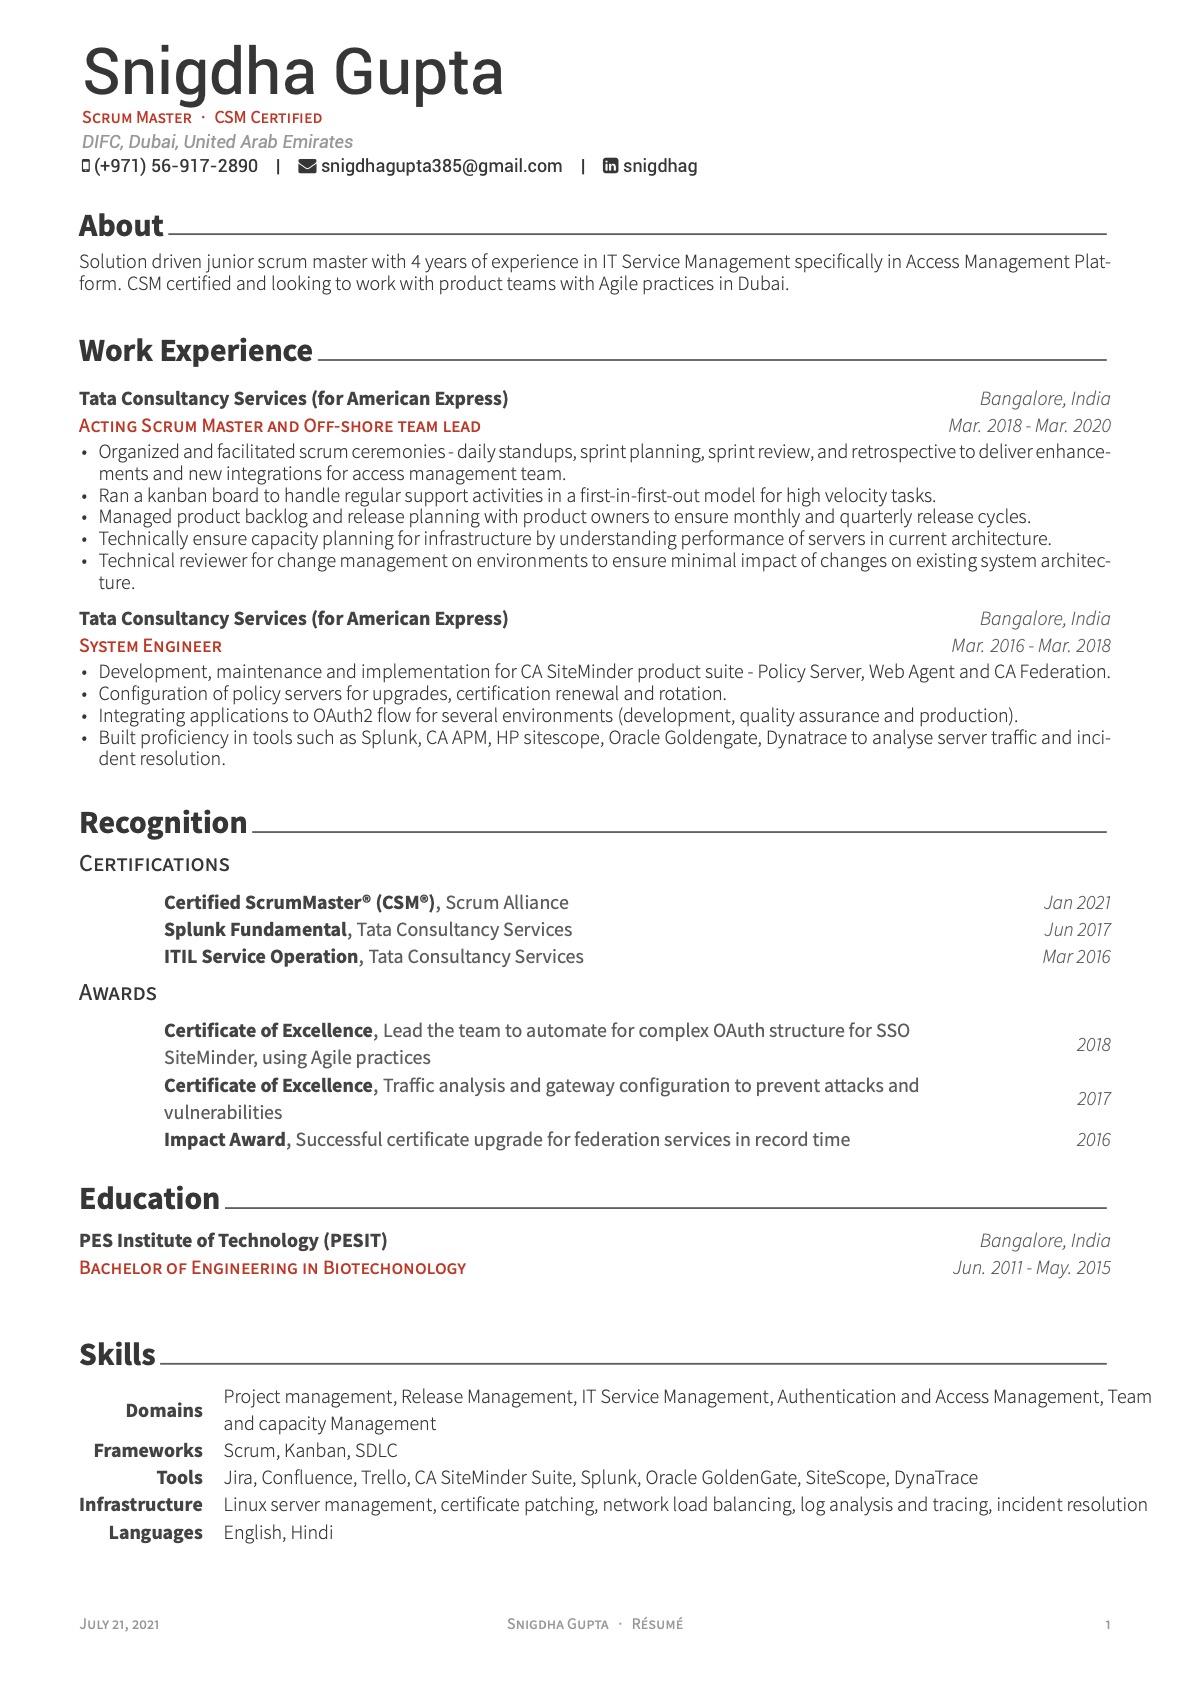
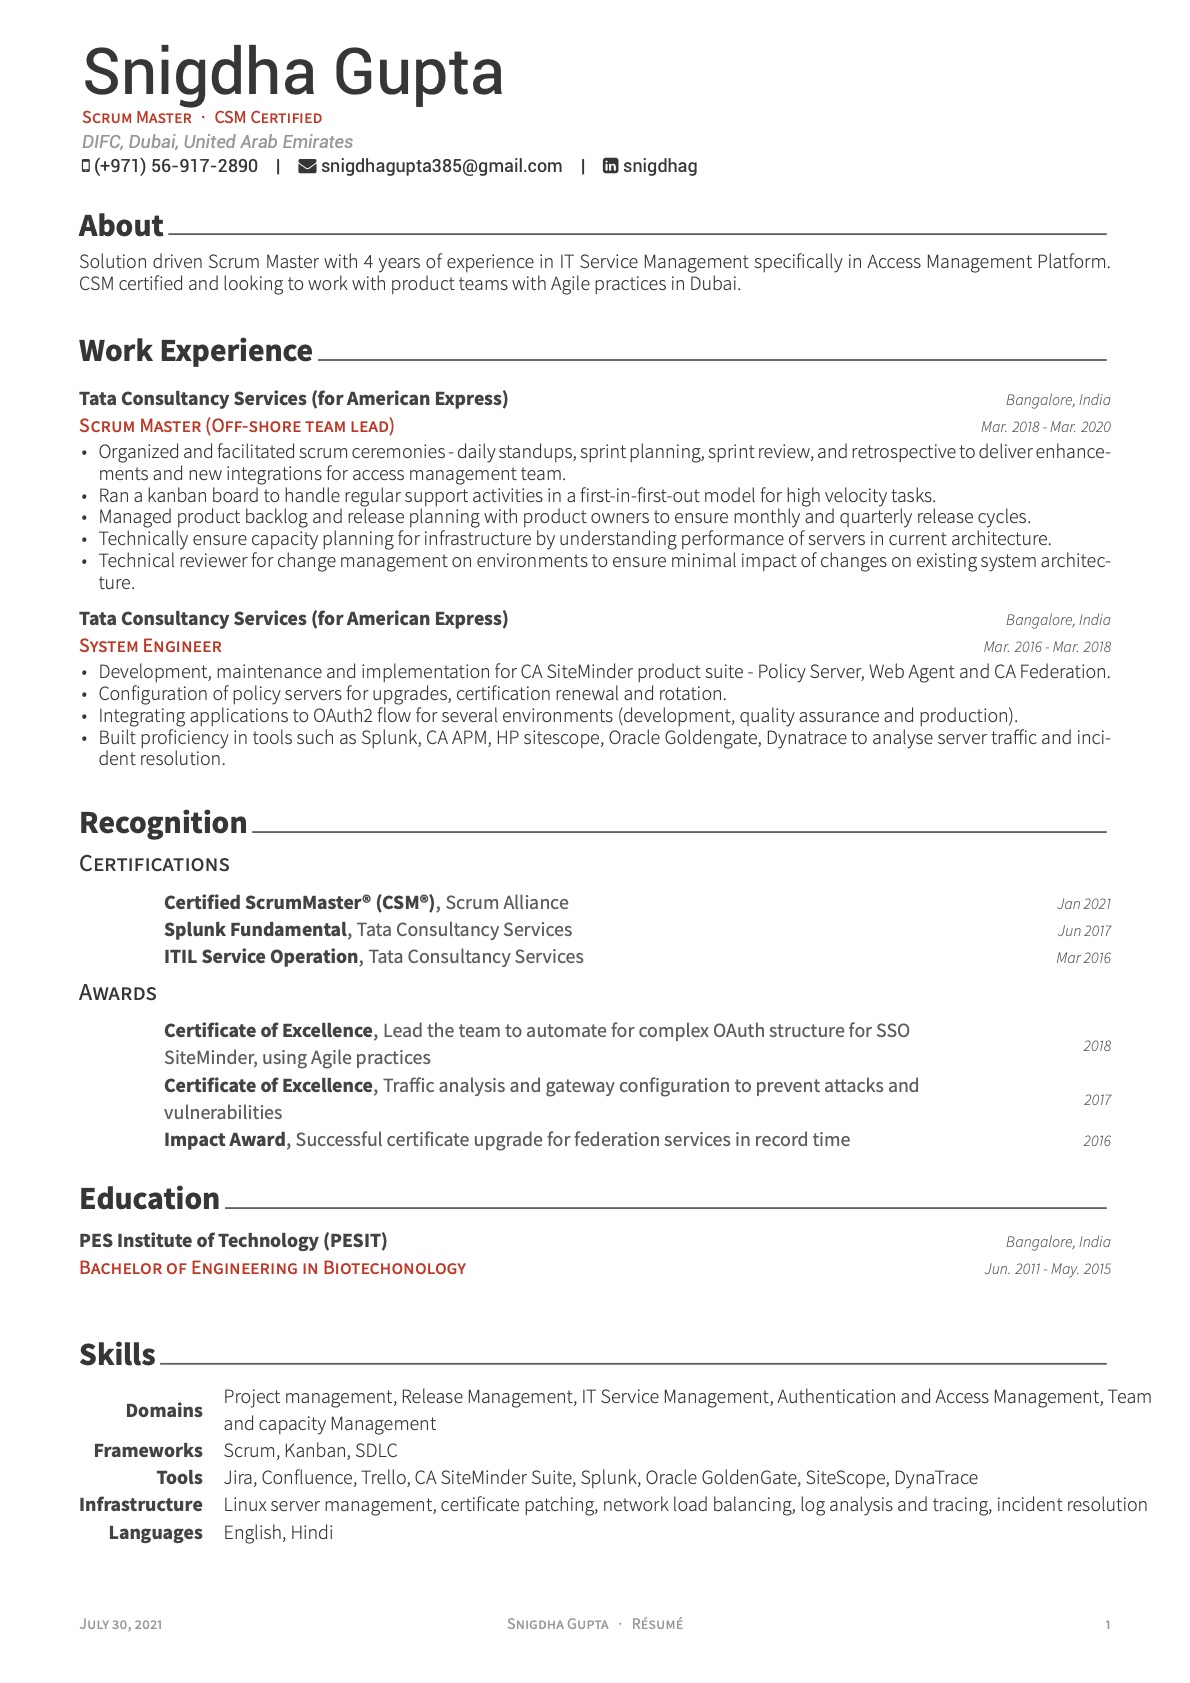
Updated role and summary

diff --git a/resume/summary.tex b/resume/summary.tex
@@ -10,5 +10,5 @@
 \begin{cvparagraph}
 
 %---------------------------------------------------------
-Solution driven junior scrum master with 4 years of experience in IT Service Management specifically in Access Management Platform. CSM certified and looking to work with product teams with Agile practices in Dubai.
+Solution driven Scrum Master with 4 years of experience in IT Service Management specifically in Access Management Platform. CSM certified and looking to work with product teams with Agile practices in Dubai.
 \end{cvparagraph}

diff --git a/resume/experience.tex b/resume/experience.tex
@@ -11,7 +11,7 @@
 
 %---------------------------------------------------------
   \cventry
-    {Acting Scrum Master and Off-shore team lead} % Job title
+    {Scrum Master (Off-shore team lead)} % Job title
     {Tata Consultancy Services (for American Express)} % Organization
     {Bangalore, India} % Location
     {Mar. 2018 - Mar. 2020} % Date(s)
